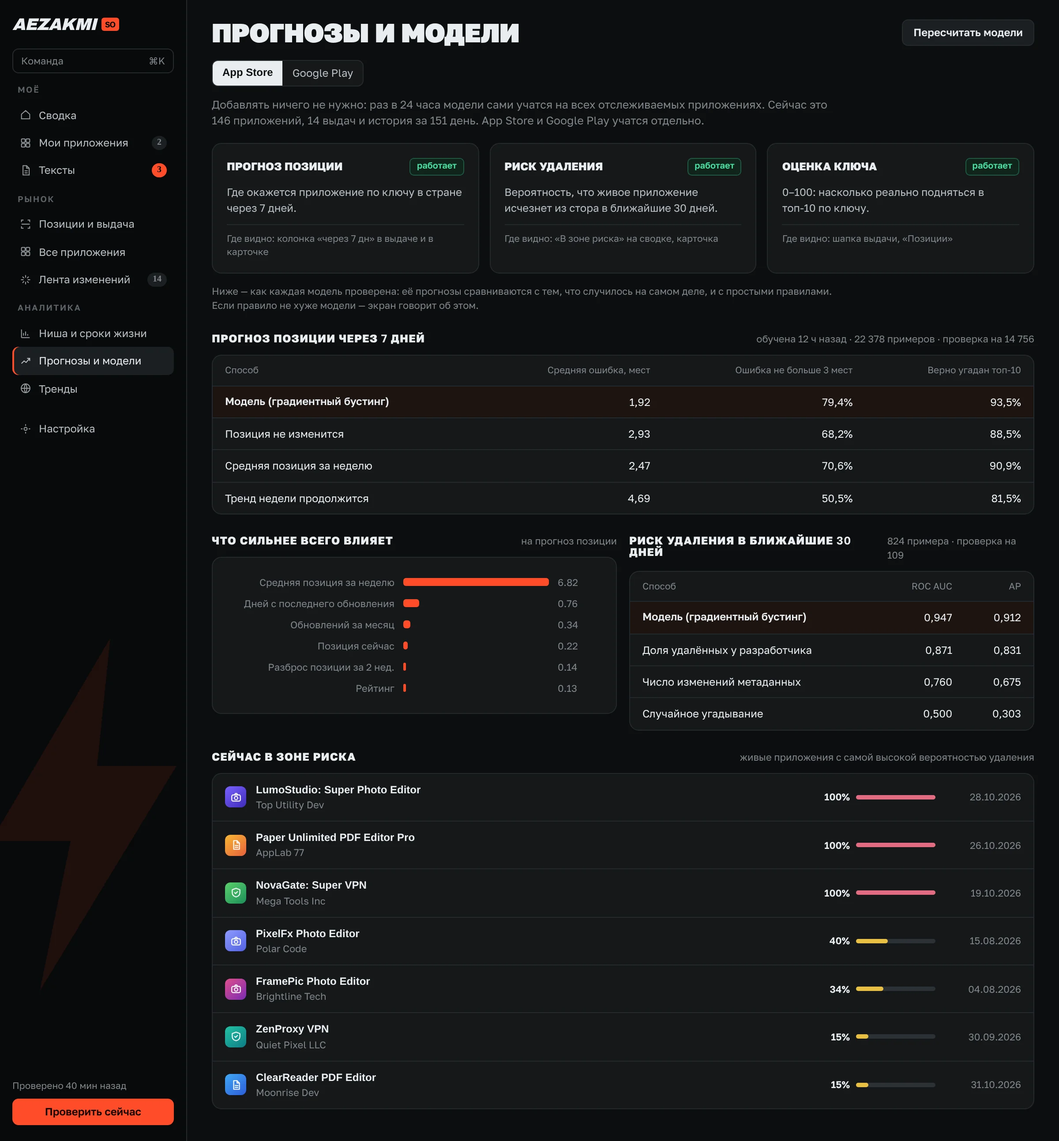
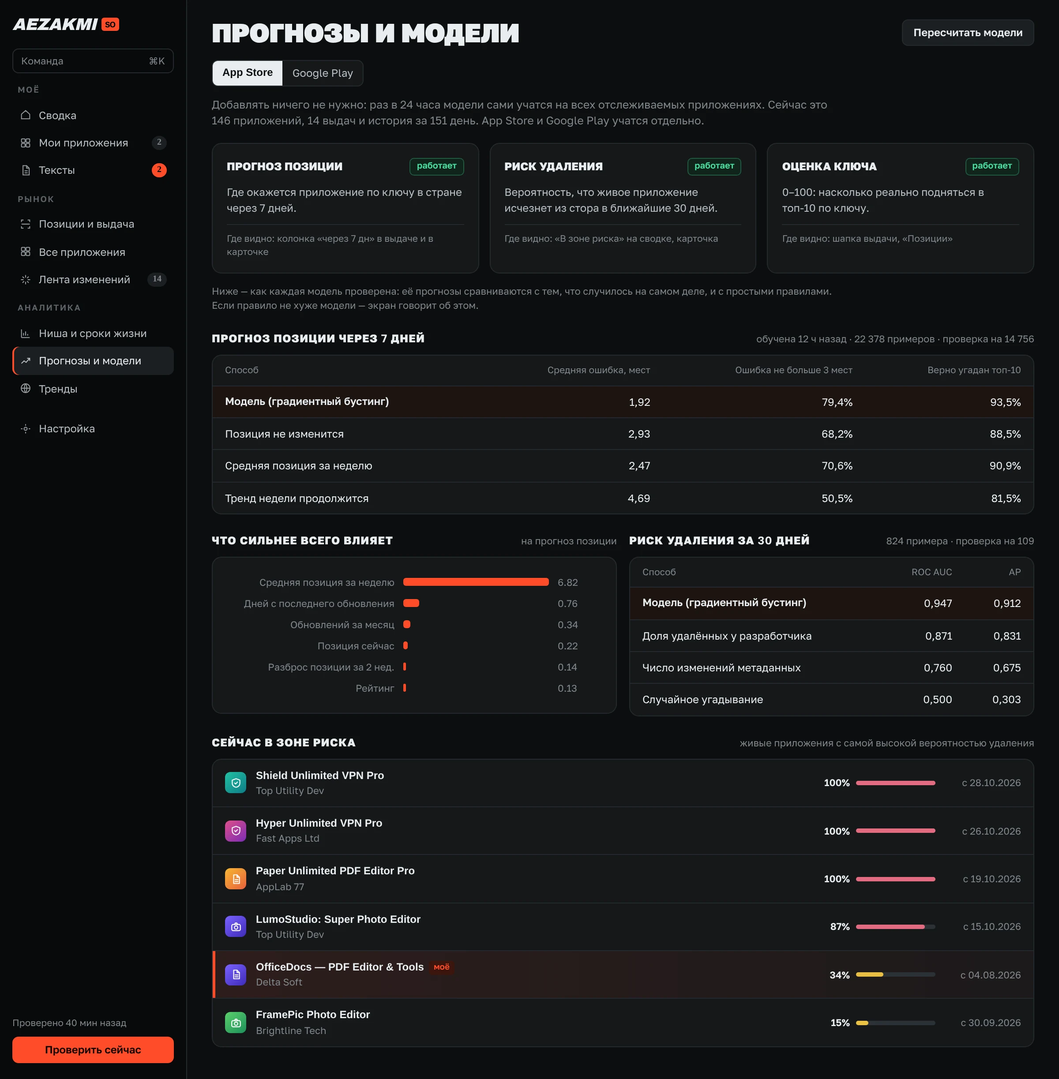
AezakmiSO kit: fix review comments and data consistency
Claude-Session: https://claude.ai/code/session_01YCV7eEeQzQCarg7RfMB8Kx

diff --git a/_src/aso-kit/screens2.py b/_src/aso-kit/screens2.py
@@ -17,22 +17,26 @@ def hbars(items, w=520):
 
 def niche():
     random.seed(4)
-    surv=[100*math.exp(-i/14)*.62+38-i*.004 if i<200 else 0 for i in range(0,120)]
-    surv=[max(0,100 if i==0 else 38+62*math.exp(-i/11)-i*.03) for i in range(120)]
+    K=[(0,100),(7,96),(30,60),(62,50),(90,43),(180,36),(270,33),(365,31)]
+    def sv_at(d):
+        for (d1,v1),(d2,v2) in zip(K,K[1:]):
+            if d<=d2: t=(d-d1)/(d2-d1); t=t*t*(3-2*t); return v1+(v2-v1)*t
+        return K[-1][1]
+    X=lambda d:d*370/365
     sv=f'<svg width="410" height="190" viewBox="-30 -6 410 190" style="display:block">'
     for k in range(5):
         y=160*k/4; sv+=f'<line x1="0" x2="370" y1="{y}" y2="{y}" stroke="#252A2E"/><text x="-7" y="{y+3}" fill="#81878D" font-size="10" text-anchor="end">{100-25*k}%</text>'
-    pts=' '.join(f'{i*370/119:.1f},{160-v*1.6:.1f}' for i,v in enumerate(surv))
+    pts=' '.join(f'{X(d):.1f},{160-sv_at(d)*1.6:.1f}' for d in range(0,366,3))
     sv+=f'<polygon points="0,160 {pts} 370,160" fill="#FF4D29" opacity=".12"/><polyline points="{pts}" fill="none" stroke="#FF4D29" stroke-width="2"/>'
-    x62=62*370/119; sv+=f'<line x1="{x62}" x2="{x62}" y1="0" y2="160" stroke="#E8EDF1" stroke-dasharray="3 3" opacity=".6"/><text x="{x62+5}" y="12" fill="#E8EDF1" font-size="10">медиана 62 дня</text>'
-    for k,t in enumerate(['0','200','400','600','800','1000']): sv+=f'<text x="{k*74}" y="176" fill="#81878D" font-size="10" text-anchor="middle">{t}</text>'
+    x62=X(62); sv+=f'<line x1="{x62:.1f}" x2="{x62:.1f}" y1="0" y2="160" stroke="#E8EDF1" stroke-dasharray="3 3" opacity=".6"/><line x1="0" x2="{x62:.1f}" y1="80" y2="80" stroke="#E8EDF1" stroke-dasharray="3 3" opacity=".35"/><circle cx="{x62:.1f}" cy="80" r="3.5" fill="#E8EDF1"/><text x="{x62+7:.1f}" y="74" fill="#E8EDF1" font-size="10">половина · 62 дня</text>'
+    for d,t in [(0,'0'),(60,'60'),(120,'120'),(180,'180'),(240,'240'),(300,'300'),(365,'365 дней')]: sv+=f'<text x="{X(d):.1f}" y="176" fill="#81878D" font-size="10" text-anchor="{"start" if d==0 else "end" if d==365 else "middle"}">{t}</text>'
     sv+='</svg>'
-    hist=bars([5,14,31,48,17,9,4,2],['до 7','8–14','15–30','31–60','61–90','91–180','181–365','>1 г'],380,150,'#E26C82',3)
+    hist=bars([6,22,30,26,12,7,3,2],['до 7','8–14','15–30','31–60','61–90','91–180','181–365','>1 г'],380,150,'#E26C82',2)
     rem=''.join(f'<tr><td><div style="display:flex;gap:9px;align-items:center">{icon(k,g,"sm")}<div><div class="nm" style="font-size:12px">{n}</div><div class="sb">{d} · {s}</div></div></div></td><td>{dt}</td><td class="r"><b>{l}</b></td><td class="r">{u}</td><td class="r">{o}</td></tr>' for n,d,k,g,s,dt,l,u,o in [
      ('EasyPDF','Sato Mobile','doc',2,'Google Play · US','11.11.2026','48 дней','5 дней','2 539'),('TurboGuard: Super VPN','Best Free Apps','shield',4,'Google Play · US','10.11.2026','24 дня','24 дня','212'),('Zen Unlimited VPN Pro','AppLab 77','shield',6,'App Store · US','09.11.2026','23 дня','23 дня','526'),('ShieldWall: Super VPN','AppLab 77','shield',8,'Google Play · US','08.11.2026','20 дней','20 дней','380'),('Lumo Unlimited Photo Editor Pro','Fast Apps Ltd','cam',1,'App Store · US','07.11.2026','26 дней','26 дней','654'),('PageEdit','Atlas Utilities','doc',9,'Google Play · DE','06.11.2026','3 месяца','33 дня','2 874'),('BoltGuard: Super VPN','AppLab 77','shield',3,'App Store · US','05.11.2026','12 дней','12 дней','278')])
     dev=''.join(f'<tr><td>{n} <span class="sb">{s}</span></td><td class="r">{a}</td><td class="r">{r} <span class="bar" style="width:50px"><i style="width:{r/a*100:.0f}%"></i></span></td></tr>' for n,s,a,r in [('Polar Code','App Store',16,3),('Blue Harbor Labs','App Store',13,1),('Nordwind Apps','App Store',12,6),('Brightline Tech','Google Play',12,1),('Sato Mobile','Google Play',11,3),('Mega Tools Inc','Google Play',9,9),('AppLab 77','App Store',9,8),('Top Utility Dev','Google Play',9,8)])
     wk=[(random.randint(6,22),random.randint(1,9)) for _ in range(22)]
-    wks='<svg width="410" height="150" viewBox="0 0 410 150" style="display:block">'+''.join(f'<rect x="{i*18.5}" y="{130-a*5}" width="7" height="{a*5}" rx="2" fill="#E8EDF1" opacity=".7"/><rect x="{i*18.5+8}" y="{130-r*5}" width="7" height="{r*5}" rx="2" fill="#E26C82"/>' for i,(a,r) in enumerate(wk))+'<line x1="0" x2="410" y1="130.5" y2="130.5" stroke="#252A2E"/></svg>'
+    wks='<svg width="410" height="150" viewBox="0 0 410 150" style="display:block">'+''.join(f'<rect x="{i*18.5}" y="{130-a*5}" width="7" height="{a*5}" rx="2" fill="#E8EDF1" opacity=".7"/><rect x="{i*18.5+8}" y="{130-r*5}" width="7" height="{r*5}" rx="2" fill="#E26C82"/>' for i,(a,r) in enumerate(wk))+'<line x1="0" x2="410" y1="130.5" y2="130.5" stroke="#252A2E"/>'+''.join(f'<text x="{x}" y="146" fill="#81878D" font-size="10" text-anchor="{an}">{t}</text>' for x,t,an in [(0,'июн','start'),(130,'июл','middle'),(260,'сен','middle'),(405,'ноя','end')])+'</svg>'
     b=f'''<div class="hd"><h1>Ниша и сроки жизни</h1><div class="seg"><span class="on">Сроки жизни</span><span>Выжившие и удалённые</span></div></div>{filt()}
 <div id="answer"><div style="font:900 34px/1.08 GH,G;text-transform:uppercase;max-width:760px">Половина приложений исчезает из стора за <span style="color:var(--ac)">62 дня</span></div>
 <div class="sb" style="font-size:12.5px;margin:10px 0 16px;max-width:640px">Доля удалённых за 7 дней — 4%, за 30 дней — 40%, за 90 дней — 57%. Оценка учитывает и тех, кто ещё жив, и тех, кого мы нашли уже не новыми.</div>
@@ -49,19 +53,19 @@ def models():
     tb=''.join(f'<tr style="{"background:#1d1410" if m else ""}"><td style="{"font-weight:600" if m else ""}">{a}</td><td class="r">{b}</td><td class="r">{c}</td><td class="r">{d}</td></tr>' for a,b,c,d,m in T)
     R=[('Модель (градиентный бустинг)','0,947','0,912',1),('Доля удалённых у разработчика','0,871','0,831',0),('Число изменений метаданных','0,760','0,675',0),('Случайное угадывание','0,500','0,303',0)]
     rb=''.join(f'<tr style="{"background:#1d1410" if m else ""}"><td style="{"font-weight:600" if m else ""}">{a}</td><td class="r">{b}</td><td class="r">{c}</td></tr>' for a,b,c,m in R)
-    risk2=''.join(f'<div class="row">{icon(k,g,"sm")}<div><div class="nm" style="font-size:12px">{n}</div><div class="sb">{d}</div></div><span class="mv"><b style="color:var(--ink)">{p}%</b><span class="bar"><i style="width:{p}%;background:{"var(--bad)" if p>50 else "var(--wa)"}"></i></span><span class="when">{dt}</span></span></div>' for n,d,k,g,p,dt in [('LumoStudio: Super Photo Editor','Top Utility Dev','cam',1,100,'28.10.2026'),('Paper Unlimited PDF Editor Pro','AppLab 77','doc',3,100,'26.10.2026'),('NovaGate: Super VPN','Mega Tools Inc','shield',6,100,'19.10.2026'),('PixelFx Photo Editor','Polar Code','cam',8,40,'15.08.2026'),('FramePic Photo Editor','Brightline Tech','cam',5,34,'04.08.2026'),('ZenProxy VPN','Quiet Pixel LLC','shield',2,15,'30.09.2026'),('ClearReader PDF Editor','Moonrise Dev','doc',4,15,'31.10.2026')])
+    risk2=''.join(f'<div class="row{" mine" if "OfficeDocs" in n else ""}">{icon(k,g,"sm")}<div><div class="nm" style="font-size:12px">{n}{"<span class=tag>моё</span>" if "OfficeDocs" in n else ""}</div><div class="sb">{d}</div></div><span class="mv"><b style="color:var(--ink)">{p}%</b><span class="bar"><i style="width:{p}%;background:{"var(--bad)" if p>50 else "var(--wa)"}"></i></span><span class="when">с {dt}</span></span></div>' for n,d,k,g,p,dt in [('Shield Unlimited VPN Pro','Top Utility Dev','shield',2,100,'28.10.2026'),('Hyper Unlimited VPN Pro','Fast Apps Ltd','shield',5,100,'26.10.2026'),('Paper Unlimited PDF Editor Pro','AppLab 77','doc',3,100,'19.10.2026'),('LumoStudio: Super Photo Editor','Top Utility Dev','cam',1,87,'15.10.2026'),('OfficeDocs — PDF Editor & Tools','Delta Soft','doc',1,34,'04.08.2026'),('FramePic Photo Editor','Brightline Tech','cam',6,15,'30.09.2026')])
     b=f'''<div class="hd"><h1>Прогнозы и модели</h1><span class="btn">Пересчитать модели</span></div><div class="seg" style="display:inline-flex;margin-bottom:12px"><span class="on">App Store</span><span>Google Play</span></div>
 <div class="sb" style="font-size:12.5px;max-width:720px;margin-bottom:16px">Добавлять ничего не нужно: раз в 24 часа модели сами учатся на всех отслеживаемых приложениях. Сейчас это 146 приложений, 14 выдач и история за 151 день. App Store и Google Play учатся отдельно.</div>
 <div class="g3" id="modelcards">{mcard("Прогноз позиции","Где окажется приложение по ключу в стране через 7 дней.","колонка «через 7 дн» в выдаче и в карточке")}{mcard("Риск удаления","Вероятность, что живое приложение исчезнет из стора в ближайшие 30 дней.","«В зоне риска» на сводке, карточка")}{mcard("Оценка ключа","0–100: насколько реально подняться в топ-10 по ключу.","шапка выдачи, «Позиции»")}</div>
 <div class="sb" style="margin:12px 0 0;max-width:720px">Ниже — как каждая модель проверена: её прогнозы сравниваются с тем, что случилось на самом деле, и с простыми правилами. Если правило не хуже модели — экран говорит об этом.</div>
 <div class="sec"><div class="st"><h2>Прогноз позиции через 7 дней</h2><a>обучена 12 ч назад · 22 378 примеров · проверка на 14 756</a></div><div class="card"><table class="tbl"><tr><th>Способ</th><th class="r">Средняя ошибка, мест</th><th class="r">Ошибка не больше 3 мест</th><th class="r">Верно угадан топ-10</th></tr>{tb}</table></div></div>
 <div class="sec g2"><div><div class="st"><h2>Что сильнее всего влияет</h2><a>на прогноз позиции</a></div><div class="card pad">{hbars([("Средняя позиция за неделю",6.82),("Дней с последнего обновления",0.76),("Обновлений за месяц",0.34),("Позиция сейчас",0.22),("Разброс позиции за 2 нед.",0.14),("Рейтинг",0.13)])}</div></div>
-<div><div class="st"><h2>Риск удаления в ближайшие 30 дней</h2><a>824 примера · проверка на 109</a></div><div class="card"><table class="tbl"><tr><th>Способ</th><th class="r">ROC AUC</th><th class="r">AP</th></tr>{rb}</table></div></div></div>
+<div><div class="st"><h2>Риск удаления за 30 дней</h2><a>824 примера · проверка на 109</a></div><div class="card"><table class="tbl"><tr><th>Способ</th><th class="r">ROC AUC</th><th class="r">AP</th></tr>{rb}</table></div></div></div>
 <div class="sec"><div class="st"><h2>Сейчас в зоне риска</h2><a>живые приложения с самой высокой вероятностью удаления</a></div><div class="card">{risk2}</div></div>'''
     return page('Прогнозы и модели', b)
 
 def texts():
-    N=[('Замечания','3 из 5','своих приложений в выдаче, у которых текст мешает хотя бы по одному ключу','wa'),('Оценщик названия','мало смен для проверки','Включится, когда наберётся 5 приложений, у которых оценка после смены выросла, и 5 — у которых упала.','wa'),('Оценщик описания','мало смен для проверки','Пока советы «поменяйте так» не показываются: тексту нечего проверять.','wa')]
+    N=[('Замечания','2 из 2','своих приложений в выдаче, у которых текст мешает хотя бы по одному ключу','wa'),('Оценщик названия','ждёт данных','Включится, когда наберётся 5 приложений, у которых оценка после смены выросла, и 5 — у которых упала.','wa'),('Оценщик описания','ждёт данных','Пока советы «поменяйте так» не показываются: тексту нечего проверять.','wa')]
     nc=''.join(f'<div class="card pad"><div style="display:flex;justify-content:space-between;align-items:center;gap:8px"><b style="font:800 11.5px/1 GH,G;text-transform:uppercase">{t}</b><span class="badge {c}">{s}</span></div><div class="sb" style="margin-top:9px;font-size:11.5px">{d}</div></div>' for t,s,d,c in N)
     RW=[(MY[0],5,'нет слов ключа: scanner, sign','✕ 4 ключа','без замечаний','dn'),(MY[1],4,'нет слов ключа: sign','✕ 1 ключ','в App Store не влияет на поиск','dn')]
     rows=''.join(f'<tr><td><div style="display:flex;gap:10px;align-items:center">{ic(n,"sm")}<div><div class="nm" style="font-size:12px">{n}<span class="tag">моё</span></div><div class="sb">{A[n][0]}</div></div></div></td><td class="r">{k}</td><td><span class="dn">{x}</span><div class="sb">{t}</div></td><td><span class="up">✓</span> <span class="sb">{o}</span></td></tr>' for n,k,t,x,o,_ in RW)
@@ -72,7 +76,7 @@ def texts():
     return page('Тексты', b)
 
 def myapps():
-    rows=''.join(f'<tr><td><span class="pos {"o" if bp<=3 else "t"}" style="display:inline-block">{bp}</span> <span class="dl up">▲{d}</span></td><td><div style="display:flex;gap:10px;align-items:center">{ic(n,"sm")}<div><div class="nm" style="font-size:12px">{n}<span class="tag">моё</span></div><div class="sb">{A[n][0]} · {A[n][3]}</div></div></div></td><td><span class="dn">{kk}</span><div class="sb">{kt}</div></td><td class="r">{r}</td><td class="r">{o}</td><td class="r">{age}</td><td><span class="up">● в сторе</span></td><td class="r">{rk}</td></tr>' for bp,d,n,kk,kt,r,o,age,rk in [(3,2,MY[0],'5 ключей','нет слов ключа: scanner, sign','4,5','99 929','23 месяца','меньше 1%'),(2,3,MY[1],'4 ключа','нет слов ключа: sign','4,3','104 517','23 месяца','34%')])
+    rows=''.join(f'<tr><td class="nw"><span class="pos {"o" if bp<=3 else "t"}" style="display:inline-block">{bp}</span> <span class="dl up">▲{d}</span></td><td><div style="display:flex;gap:10px;align-items:center">{ic(n,"sm")}<div><div class="nm nw" style="font-size:12px">{n}<span class="tag">моё</span></div><div class="sb nw">{A[n][0]} · {A[n][3]}</div></div></div></td><td><span class="dn">{kk}</span><div class="sb">{kt}</div></td><td class="r">{r}</td><td class="r">{o}</td><td class="r">{age}</td><td class="nw"><span class="up">● в сторе</span></td><td class="r">{rk}</td></tr>' for bp,d,n,kk,kt,r,o,age,rk in [(3,2,MY[0],'4 ключа','нет слов ключа: scanner, sign','4,5','99 929','23 месяца','меньше 1%'),(2,3,MY[1],'1 ключ','нет слов ключа: sign','4,3','104 517','23 месяца','34%')])
     vis=[(walk(40,s,1.6,5,40,.05),c) for s,c in [(20,'#FF4D29'),(16,'#8E9BFF')]]
     b=f'''<div class="hd"><h1>Мои приложения</h1><span class="meta">2 приложения · отмечены как свои</span></div>{filt('<div><label>Сортировка</label><div class="sel">По месту в выдаче ▾</div></div>')}
 <div class="card"><table class="tbl"><tr><th>Лучшее место</th><th>Приложение</th><th>Название</th><th class="r">Рейтинг</th><th class="r">Оценок</th><th class="r">Возраст</th><th>Статус</th><th class="r">Риск</th></tr>{rows}</table></div>

diff --git a/_src/aso-kit/screens.py b/_src/aso-kit/screens.py
@@ -18,24 +18,25 @@ A = {  # name: (dev, icon, grad, store)
 def ic(n, cls=''):
     d,k,g,s = A[n]; return icon(k,g,cls)
 MY = ['ProSign PDF Editor','OfficeDocs — PDF Editor & Tools']
+VIS = {MY[0]:'24%', MY[1]:'20%'}
 
 # ---------- OVERVIEW ----------
 def kpis():
     return f'''<div class="kpis" id="kpi">
-<div class="card kpi o">{BOLT}<div class="l">Мои приложения в выдаче</div><div class="v">2 <span style="font-size:15px;font-weight:600">из 2</span></div><div class="d">все в топ-10 хотя бы по одному ключу</div></div>
+<div class="card kpi o">{BOLT}<div class="l">Мои приложения в выдаче</div><div class="v">2<small>из 2</small></div><div class="d">все в топ-10 хотя бы по одному ключу</div></div>
 <div class="card kpi"><div class="l">Видимость своих</div><div class="v">22,1%</div><div class="d"><span class="up">▲ 3,4 п.п.</span> к прошлой неделе</div></div>
 <div class="card kpi"><div class="l">Удалено своих за 7 дней</div><div class="v">0</div><div class="d">рынок: 9 удалений за неделю</div></div>
 <div class="card kpi"><div class="l">В зоне риска</div><div class="v">1</div><div class="d"><span class="wa">OfficeDocs</span> · риск удаления 34%</div></div></div>'''
 def myrow(n, chips, rid=''):
     d,k,g,s = A[n]
     ch = ''.join(f'<span class="chip">{kw} <span class="flag">{c}</span><span class="pos {cl}">{p}</span><span class="dl {"up" if dl>0 else "dn" if dl<0 else ""}">{("▲"+str(dl)) if dl>0 else ("▼"+str(-dl)) if dl<0 else "·"}</span></span>' for kw,c,p,cl,dl in chips)
-    return f'<div class="row" {rid} style="align-items:flex-start;padding:13px 16px">{ic(n)}<div style="min-width:180px"><div class="nm">{n}<span class="tag">моё</span></div><div class="sb">{s} · видимость {random.choice(["24%","21%"])} · {d}</div></div><div class="chips">{ch}</div></div>'
+    return f'<div class="row" {rid} style="align-items:flex-start;padding:13px 16px">{ic(n)}<div style="flex:none;width:262px"><div class="nm nw">{n}<span class="tag">моё</span></div><div class="sb">{s} · видимость {VIS[n]} · {d}</div></div><div class="chips" style="flex:1;min-width:0">{ch}</div></div>'
 def myapps_block():
     r1 = myrow(MY[0],[('pdf scanner','DE',3,'o',2),('sign pdf','US',4,'t',1),('pdf scanner','US',4,'t',-1),('sign pdf','DE',7,'',1),('pdf editor','BR',10,'',0),('pdf scanner','BR',13,'',-6)], 'id="row"')
     r2 = myrow(MY[1],[('pdf editor','US',2,'o',3),('pdf editor','DE',4,'t',1),('pdf scanner','US',5,'t',1),('sign pdf','DE',7,'',-2),('pdf scanner','DE',9,'',2)])
     add = '''<div style="padding:14px 16px;border-bottom:1px solid var(--ln);display:grid;grid-template-columns:1fr 1fr 150px auto;gap:12px;align-items:end">
 <div><div class="sb" style="margin-bottom:5px">Найти среди отслеживаемых</div><div class="sel" style="color:var(--mu)">Название, разработчик или ID</div></div>
-<div><div class="sb" style="margin-bottom:5px">Или добавить по ссылке</div><div class="sel" style="color:var(--mu)">apps.apple.com/…/id1234567 или play.google.com/…</div></div>
+<div><div class="sb" style="margin-bottom:5px">Или добавить по ссылке</div><div class="sel" style="color:var(--mu)">Ссылка на App Store или Google Play</div></div>
 <div><div class="sb" style="margin-bottom:5px">Страна</div><div class="sel">США (US) ▾</div></div><div class="btn p">Добавить как моё</div></div>'''
     return f'<div class="sec" id="add"><div class="st"><h2>Мои приложения</h2><a>все мои · + добавить своё</a></div><div class="card">{add}<div id="chips">{r1}{r2}</div></div></div>'
 MOVES = [
@@ -88,7 +89,7 @@ def positions():
     rows=''
     for i,(n,d,k,g,r,c) in enumerate(RES):
         dl=random.choice([1,2,-1,0,3,-2])
-        rows+=f'''<div class="row" style="padding:12px 16px;gap:14px"><span class="pos t" style="width:30px;height:30px;line-height:30px;font-size:13px;border-radius:8px">{i+1}</span>{icon(k,g)}<div style="width:230px"><div class="nm">{n}</div><div class="sb">{d}</div><div class="sb">★ {r} · {f"{c:,}".replace(",", " ")} оценок · вышло {random.choice(["2 года","8 месяцев","24 месяца","12 месяцев"])} назад</div><div class="sb">прогноз через 7 дн: <span class="{"up" if dl>=0 else "dn"}">{max(1,i+1-dl)}</span></div></div><div style="display:flex;gap:7px;margin-left:auto">{"".join(shot(g+j,j) for j in range(5))}</div></div>'''
+        rows+=f'''<div class="row" style="padding:12px 16px;gap:14px"><span class="pos t" style="width:30px;height:30px;line-height:30px;font-size:13px;border-radius:8px">{i+1}</span>{icon(k,g)}<div style="width:230px"><div class="nm">{n}</div><div class="sb">{d}</div><div class="sb nw">★ {r} · {f"{c:,}".replace(",", " ")} оценок</div><div class="sb nw">вышло {random.choice(["2 года","8 месяцев","24 месяца","12 месяцев"])} назад</div><div class="sb">прогноз через 7 дн: <span class="{"up" if dl>=0 else "dn"}">{max(1,i+1-dl)}</span></div></div><div style="display:flex;gap:7px;margin-left:auto">{"".join(shot(g+j,j) for j in range(5))}</div></div>'''
     b=f'''<div style="display:grid;grid-template-columns:200px 1fr;gap:18px"><div><div class="card" style="padding:8px"><div style="display:flex;gap:6px;margin-bottom:8px"><div class="sel" style="flex:1;color:var(--mu)">Найти ключ</div><div class="btn">+</div></div>{kl}</div></div>
 <div><div class="hd" style="margin-bottom:8px"><h1 style="font-size:24px;text-transform:none">«collage maker»</h1><span class="btn">Изменить ключ</span></div><div class="meta" style="margin-bottom:12px">App Store · US · язык en · проверено 12 ч назад · 34 приложения</div>
 <div class="fb"><div class="seg"><span>DE</span><span class="on">US</span></div><div class="seg"><span>BR/en</span><span>DE/en</span><span>US</span></div></div>
@@ -97,11 +98,11 @@ def positions():
     return page('Позиции и выдача', b)
 
 # ---------- APP CARD (positions) ----------
-def apphead(n='ProSign PDF Editor', dev='Nordwind Apps', mine=True, k='pen', g=0, stats=None, tab=0):
+def apphead(n='ProSign PDF Editor', dev='Nordwind Apps', mine=True, k='pen', g=0, stats=None, tab=0, rel='22.12.2024', base='15.06.2026'):
     stats = stats or [('3','лучшее место сейчас · «pdf scanner» · DE'),('24%','видимость: 1-е место = 100%'),('23 месяца','возраст с выхода в стор'),('меньше 1%','риск удаления за 30 дней')]
     st=''.join(f'<div style="padding:14px 16px;{"border-left:1px solid var(--ln);" if i else ""}"><div style="font:800 22px/1 GH,G">{v}</div><div class="sb" style="margin-top:6px">{t}</div></div>' for i,(v,t) in enumerate(stats))
     tabs=''.join(f'<span class="{"on" if i==tab else ""}">{t}</span>' for i,t in enumerate(['Позиции','Метаданные и графика','История']))
-    return f'''<div class="sb" style="margin-bottom:12px">← Приложения</div><div style="display:flex;gap:16px;align-items:center">{icon(k,g,"lg")}<div><div style="font:800 24px/1.1 GH,G">{n}</div><div class="sb" style="margin:4px 0 9px">{dev} · Google Play · US · <span class="up">● в сторе</span> · вышло 22.12.2024 · в базе с 15.06.2026</div>
+    return f'''<div class="sb" style="margin-bottom:12px">← Приложения</div><div style="display:flex;gap:16px;align-items:center">{icon(k,g,"lg")}<div><div style="font:800 24px/1.1 GH,G">{n}</div><div class="sb" style="margin:4px 0 9px">{dev} · Google Play · US · <span class="up">● в сторе</span> · вышло {rel} · в базе с {base}</div>
 <div style="display:flex;gap:8px">{"<span class='btn p'>Моё приложение ✓</span>" if mine else "<span class='btn'>Это моё приложение</span>"}<span class="btn">☆ В избранное</span><span class="btn">Открыть в сторе</span><span class="btn">Ещё ▾</span></div></div></div>
 <div class="card" style="display:grid;grid-template-columns:repeat(4,1fr);margin-top:18px">{st}</div><div class="tabs">{tabs}</div>'''
 def grid():
@@ -128,7 +129,7 @@ def meta():
     shots=''.join(shot(i,i%3) for i in range(7))
     lst=''.join(f'<div class="row" style="padding:12px 16px"><div style="width:250px"><div style="font-size:12px;font-weight:600">«{k}» <span class="flag">{c}</span> <span class="sb">листинг под страну</span></div><div style="display:flex;gap:9px;align-items:center;margin-top:8px">{icon("cam",5,"sm")}<span class="nm">RetroLab {c}</span></div><div class="sb" style="margin-top:6px">отличается: название, иконка · с 21.10.2026</div></div><div style="display:flex;gap:6px;margin-left:auto">{"".join(shot(5+j,j) for j in range(7))}</div></div>' for k,c in [('collage maker','BR'),('photo editor','BR'),('collage maker','DE'),('photo editor','DE')])
     info=''.join(f'<div style="padding:7px 0;border-top:1px solid var(--ln)"><div class="sb" style="font-size:10.5px">{a}</div><div style="font-size:12px">{v}</div></div>' for a,v in [('Категория','Photography'),('Цена','Бесплатно'),('Встроенные покупки','да, $0.99 — $49.99'),('Установки','100 000+'),('Рейтинг','4,43 из 5 · 7 267 оценок'),('Версия','1.3.0'),('Последнее обновление','04.11.2026'),('Вышло в стор','22.06.2026'),('Bundle ID','com.retrolab.app')])
-    b=apphead('RetroLab','Delta Soft',False,'cam',5,[('12','лучшее место · «collage maker» · US'),('9%','видимость'),('5 месяцев','возраст'),('меньше 1%','риск удаления за 30 дней')],1)
+    b=apphead('RetroLab','Moonrise Dev',False,'cam',5,[('6','лучшее место · «collage maker» · BR'),('9%','видимость'),('5 месяцев','возраст с выхода в стор'),('меньше 1%','риск удаления за 30 дней')],1,rel='22.06.2026',base='23.06.2026')
     b+=f'''<div class="st"><h2>Устройства и графика</h2><a>Google Play не сообщает список устройств</a></div><div class="card pad" style="display:flex;gap:8px;align-items:center"><div style="width:110px"><div class="nm">Android</div><div class="sb">7 скриншотов и видео</div></div>{shots}</div>
 <div class="sec"><div class="st"><h2>Листинги в выдаче</h2><a>картинка в выдаче по ключу, если отличается от страницы</a></div><div class="card">{lst}</div></div>
 <div class="sec" style="display:grid;grid-template-columns:1.5fr 1fr;gap:14px"><div><div class="st"><h2>Описание</h2><a>590 символов</a></div><div class="card pad"><div class="nm" style="margin-bottom:8px">Удобный photo editor в один клик</div><div class="sb" style="font-size:12px;line-height:1.6;color:#b9c0c6">RetroLab — фоторедактор с плёночными фильтрами, коллажами и ретушью. Соберите коллаж из 9 фото, добавьте рамку и текст, сохраните в высоком качестве. Подходит для сторис, постов и печати.</div><div class="nm" style="margin:14px 0 6px">Что нового в 1.3.0</div><div class="sb">Новые рамки для коллажей, ускорен экспорт.</div></div></div><div><div class="st"><h2>Сведения</h2><a>на 13.11.2026</a></div><div class="card" style="padding:4px 16px">{info}</div></div></div>'''
@@ -141,7 +142,7 @@ def history():
     ev=''.join(f'<div style="display:flex;gap:12px;padding:0 0 14px;position:relative"><div style="width:9px;height:9px;border-radius:50%;margin-top:4px;flex:none;background:{"var(--ac)" if big else "#3a4045"}"></div><div><div class="sb" style="font-size:10.5px">{d}</div><div style="font-size:12.5px;{"font-weight:600" if big else ""}">{t}</div>{f"<div class=sb style=margin-top:5px;background:var(--s2);padding:6px 9px;border-radius:6px>{x}</div>" if x else ""}</div></div>' for d,t,x,big in EV)
     random.seed(9); r=[1000+i*i*1.25+random.random()*80 for i in range(70)]
     oth=''.join(f'<div class="row">{icon(k,g,"sm")}<span class="nm" style="font-size:12px">{n}</span><span class="mv"><span class="{"dn" if rm else "up"}">● {"удалено 11.07" if rm else "в сторе"}</span></span></div>' for n,k,g,rm in [('TurboWall VPN','shield',6,0),('ShieldProxy VPN','shield',4,0),('SwiftTunnel VPN','shield',8,0),('AstraGuard VPN','shield',0,0),('QuickScan PDF Editor','scan',2,1),('RetroFx Photo Editor','cam',3,0)])
-    b=apphead('RetroLab','Delta Soft',False,'cam',5,[('12','лучшее место · «collage maker» · US'),('9%','видимость'),('5 месяцев','возраст'),('меньше 1%','риск удаления за 30 дней')],2)
+    b=apphead('RetroLab','Moonrise Dev',False,'cam',5,[('6','лучшее место · «collage maker» · BR'),('9%','видимость'),('5 месяцев','возраст с выхода в стор'),('меньше 1%','риск удаления за 30 дней')],2,rel='22.06.2026',base='23.06.2026')
     b+=f'''<div class="st"><h2>Этапы</h2><a>путь приложения: от выхода до сегодня</a></div><div style="display:grid;grid-template-columns:repeat(5,1fr);gap:10px">{stg}</div>
 <div class="sec" style="display:grid;grid-template-columns:1.25fr 1fr;gap:18px"><div><div class="st"><h2>События</h2><a>4 версии · 3 смены метаданных</a></div><div class="card pad" style="padding:16px 16px 4px">{ev}</div></div>
 <div><div class="st"><h2>Число оценок</h2><a>рост аудитории</a></div><div class="card pad">{linechart([(r,"#FF4D29")],380,150,0,8000,["8k","6k","4k","2k","0"],["июл","авг","сен","окт","ноя"],fill=True)}</div>

diff --git a/_src/aso-kit/kit.py b/_src/aso-kit/kit.py
@@ -38,7 +38,7 @@ h1{{font:900 30px/1 GH,G;text-transform:uppercase;letter-spacing:-.3px}}
 .meta{{color:var(--mu);font-size:11.5px}}
 .fb{{display:flex;gap:14px;align-items:flex-end;margin-bottom:18px}}
 .fb label{{display:block;font-size:10px;color:var(--mu);margin-bottom:5px}}
-.sel{{height:30px;border:1px solid var(--ln);border-radius:7px;background:var(--s);display:flex;align-items:center;padding:0 10px;gap:20px;font-size:12px}}
+.sel{{height:30px;border:1px solid var(--ln);border-radius:7px;background:var(--s);display:flex;align-items:center;padding:0 10px;gap:20px;font-size:12px;white-space:nowrap;overflow:hidden;text-overflow:ellipsis}}
 .seg{{display:flex;border:1px solid var(--ln);border-radius:7px;overflow:hidden;background:var(--s)}}
 .seg span{{padding:0 11px;height:28px;display:flex;align-items:center;font-size:12px;color:#b9c0c6;gap:5px}}
 .seg span.on{{background:var(--ink);color:#0C0E0F;font-weight:600}}
@@ -51,11 +51,14 @@ h1{{font:900 30px/1 GH,G;text-transform:uppercase;letter-spacing:-.3px}}
 .kpis{{display:grid;grid-template-columns:1.25fr 1fr 1fr 1fr;gap:12px}}
 .kpi{{padding:16px;min-height:112px;position:relative;overflow:hidden}}
 .kpi .l{{font-size:11.5px;color:var(--mu)}}
-.kpi .v{{font:800 32px/1 GH,G;margin:12px 0 8px;letter-spacing:-.5px}}
+.kpi .v{{font:800 32px/1 GH,G;margin:12px 0 8px;letter-spacing:-.5px;display:flex;align-items:baseline;gap:6px}}
+.kpi .v small{{font:600 15px/1 G;letter-spacing:0}}
+.kpi .l,.kpi .d{{position:relative;z-index:1}}
+
 .kpi .d{{font-size:11px;color:var(--mu)}}
 .kpi.o{{background:var(--ac);border-color:var(--ac);color:#140603}}
 .kpi.o .l,.kpi.o .d{{color:#4a1408}}
-.kpi.o svg{{position:absolute;right:-6px;bottom:-14px;width:110px;fill:#140603;opacity:.85}}
+.kpi.o svg{{position:absolute;right:14px;top:14px;width:40px;fill:#140603;opacity:.9}}
 .up{{color:var(--ok)}} .dn{{color:var(--bad)}} .wa{{color:var(--wa)}}
 .ic{{width:30px;height:30px;border-radius:8px;flex:none;display:grid;place-items:center}}
 .ic svg{{width:16px;height:16px;fill:none;stroke:#fff;stroke-width:2;stroke-linecap:round;stroke-linejoin:round}}
@@ -78,13 +81,13 @@ h1{{font:900 30px/1 GH,G;text-transform:uppercase;letter-spacing:-.3px}}
 .tbl th{{text-align:left;font-weight:400;color:var(--mu);font-size:10.5px;padding:9px 14px;border-bottom:1px solid var(--ln)}}
 .tbl td{{padding:9px 14px;border-top:1px solid var(--ln)}}
 .tbl tr:first-child td{{border-top:0}}
-.r{{text-align:right!important}}
+.r{{text-align:right!important;white-space:nowrap}} .nw{{white-space:nowrap}}
 .bar{{height:5px;border-radius:3px;background:#2b3135;position:relative;width:90px;display:inline-block;vertical-align:middle}}
 .bar i{{position:absolute;left:0;top:0;bottom:0;border-radius:3px;background:var(--bad)}}
 .tabs{{display:flex;gap:4px;border-bottom:1px solid var(--ln);margin:18px 0 16px}}
 .tabs span{{padding:9px 12px;font-size:12.5px;color:var(--mu)}}
 .tabs span.on{{color:var(--ink);box-shadow:inset 0 -2px 0 var(--ac)}}
-.badge{{font:600 10px/1 G;padding:4px 7px;border-radius:5px;border:1px solid}}
+.badge{{font:600 10px/1 G;padding:4px 7px;border-radius:5px;border:1px solid;white-space:nowrap;flex:none}}
 .badge.ok{{color:var(--ok);border-color:#1f5a41;background:#0f241b}}
 .badge.wa{{color:var(--wa);border-color:#5d4c1a;background:#241e0c}}
 .g2{{display:grid;grid-template-columns:1fr 1fr;gap:14px}}
@@ -117,7 +120,7 @@ def shot(g, k=0):
     ang = 160 + k*25
     u = ['#FF4D29','#2D5BD9','#1C8F5A','#7A2BB5'][ (g+k) % 4]
     return f'<span class="shot" style="background:linear-gradient({ang}deg,{a},{b})"><b></b><b></b><s></s><u style="background:{u}"></u></span>'
-NAV = [('МОЁ',[('Сводка','home',''),('Мои приложения','grid','2'),('Тексты','doc','r3')]),
+NAV = [('МОЁ',[('Сводка','home',''),('Мои приложения','grid','2'),('Тексты','doc','r2')]),
        ('РЫНОК',[('Позиции и выдача','scan',''),('Все приложения','grid',''),('Лента изменений','spark','14')]),
        ('АНАЛИТИКА',[('Ниша и сроки жизни','chart',''),('Прогнозы и модели','trend',''),('Тренды','globe','')])]
 NI = {'home':'<path d="M4 11l8-7 8 7v9H4z"/>','chart':'<path d="M4 20V4M4 20h16M8 16v-5M12 16V8M16 16v-3"/>','trend':'<path d="M4 17l5-5 4 3 7-8"/><path d="M15 7h5v5"/>'}
@@ -131,7 +134,6 @@ def side(active):
             if c: b = f'<b class="r">{c[1:]}</b>' if c.startswith('r') else f'<b>{c}</b>'
             h += f'<div class="nv{" on" if n==active else ""}"><svg viewBox="0 0 24 24">{svg}</svg>{n}{b}</div>'
     h += f'<div class="nv" style="margin-top:14px"><svg viewBox="0 0 24 24"><circle cx="12" cy="12" r="3"/><path d="M12 3v3M12 18v3M3 12h3M18 12h3"/></svg>Настройка</div>'
-    h += f'<svg class="bolt" viewBox="0 0 100 160" fill="#FF4D29"><path d="M62 0 L8 92 H44 L30 160 L92 58 H56 Z"/></svg>'
     h += '<div class="chk"><p>Проверено 40 мин назад</p><div class="btn p" style="width:100%">Проверить сейчас</div></div></aside>'
     return h
 def filt(extra=''):
@@ -159,7 +161,9 @@ def linechart(series, w=860, h=170, lo=0, hi=1, yl=None, xl=None, fill=False, in
         y=h*k/4; s+=f'<line x1="0" x2="{w}" y1="{y}" y2="{y}" stroke="#252A2E"/>'
         if yl: s+=f'<text x="-8" y="{y+3}" fill="#81878D" font-size="10" text-anchor="end">{yl[k]}</text>'
     if xl:
-        for k,t in enumerate(xl): s+=f'<text x="{k*w/(len(xl)-1)}" y="{h+18}" fill="#81878D" font-size="10" text-anchor="middle">{t}</text>'
+        for k,t in enumerate(xl):
+            an='start' if k==0 else 'end' if k==len(xl)-1 else 'middle'
+            s+=f'<text x="{k*w/(len(xl)-1)}" y="{h+18}" fill="#81878D" font-size="10" text-anchor="{an}">{t}</text>'
     for pts,col in series:
         lo2,hi2=(hi,lo) if inv else (lo,hi)
         d=path(pts,w,h,lo2,hi2)
